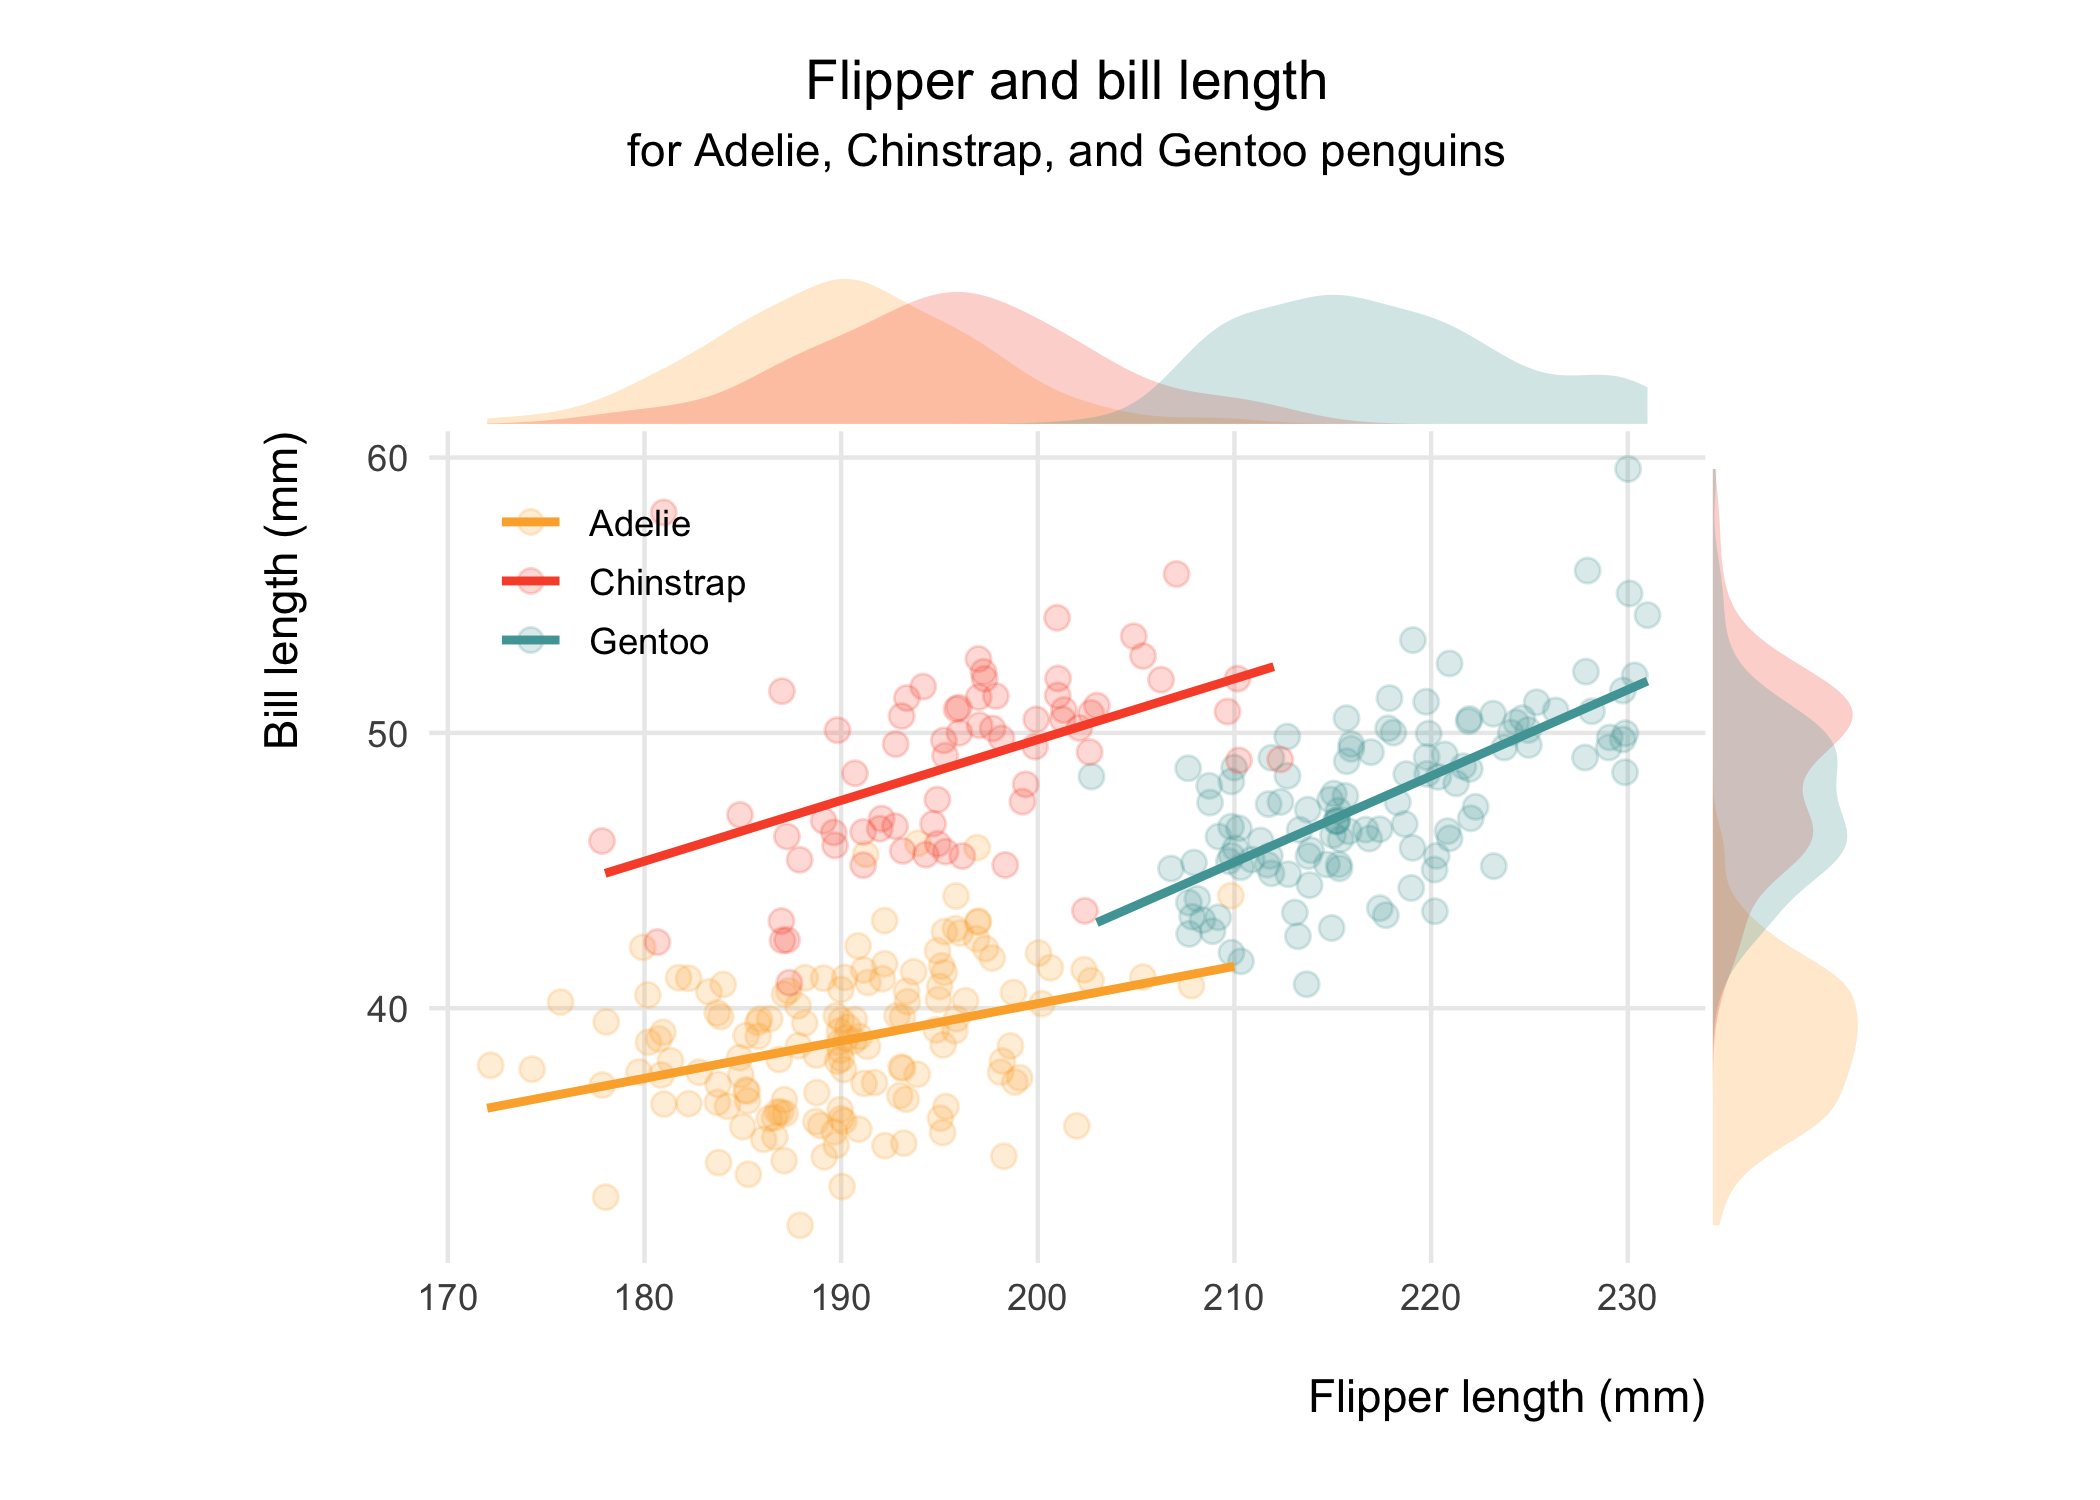
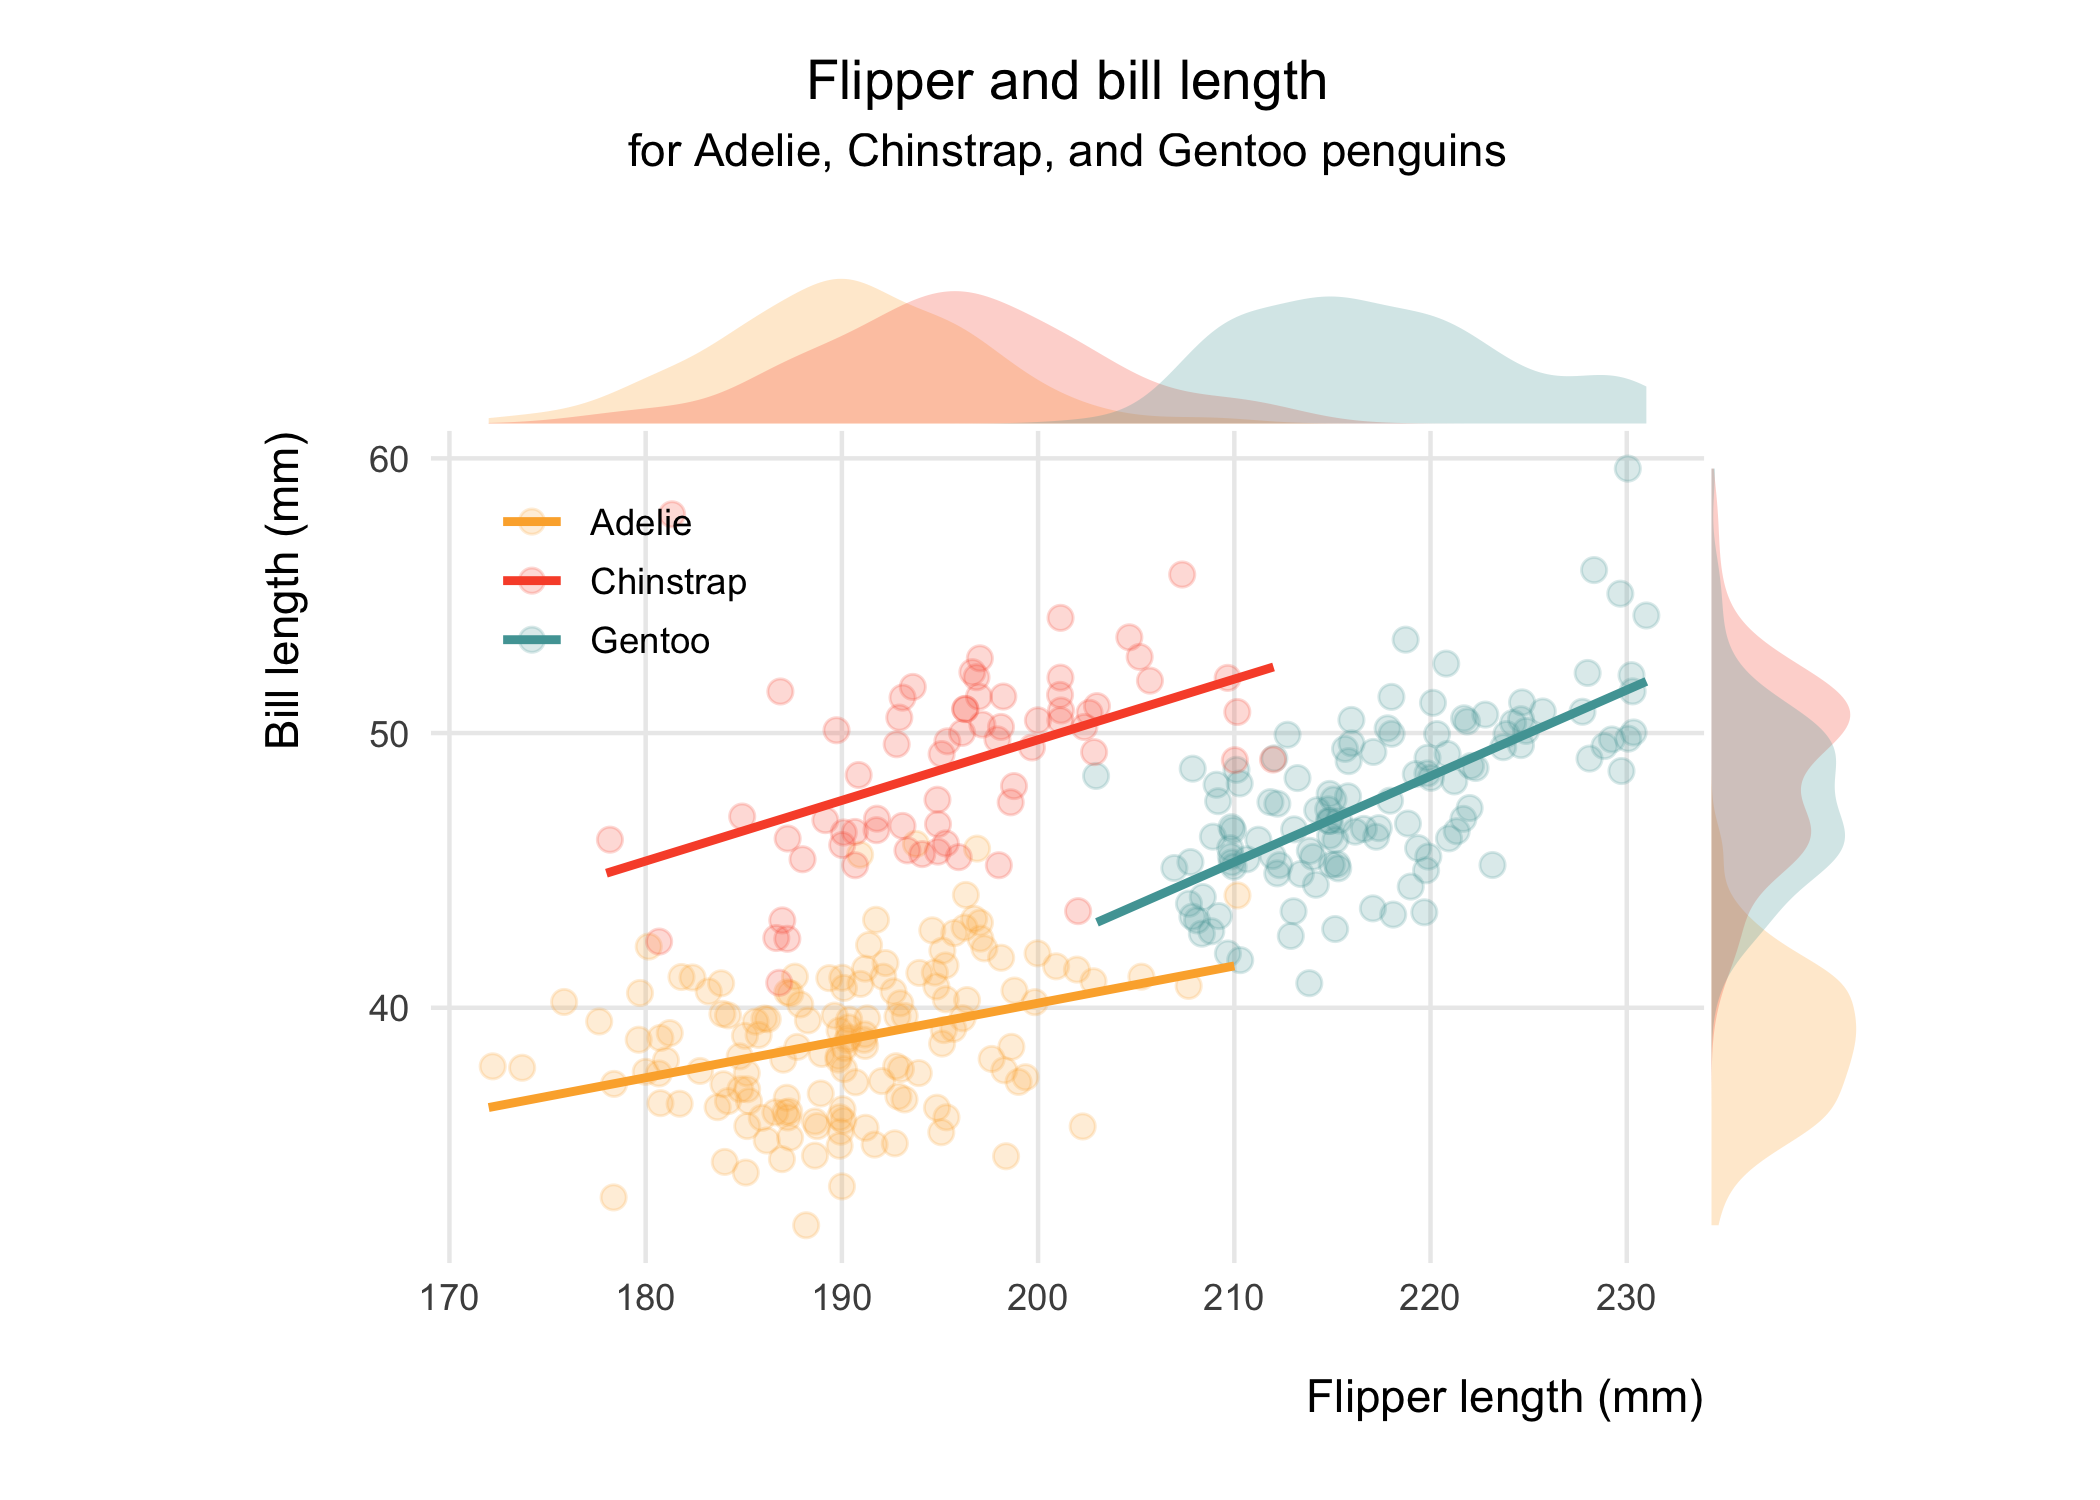
change alignment

diff --git a/palmer-penguins/palmer-penguins.md b/palmer-penguins/palmer-penguins.md
@@ -71,12 +71,19 @@ glimpse(penguins)
 
 ## Visualisation
 
+Firstly, I am going to reproduce the first plot illustrated on the
+`palmerpenguins` site, with slight modification. This is basically a
+scatter plot overlaid by ordinary-least-squares regression lines across
+species. Penguins with longer flippers tended to have a longer bill,
+irrespective of the species.
+
 ``` r
 # Set plots to some formatting
 
 ## Colours and theme of my choosing
-colours_penguins <- c("Gentoo" = "#50A3A4", "Chinstrap" = "#F95335", "Adelie" = "#FCAF38")
-colours_sex <- c("Male" = "#50A3A4", "Female" = "#FCAF38")
+colours_penguins <- c("Gentoo" = "#50A3A4",
+                      "Chinstrap" = "#F95335",
+                      "Adelie" = "#FCAF38")
 theme_set(theme_minimal())
 
 ## Further refinement
@@ -95,17 +102,14 @@ theme_update(
 )
 ```
 
-Firstly, I am going to reproduce the first plot illustrated on the
-`palmerpenguins` site, with slight modification. This is basically a
-scatter plot overlaid by ordinary-least-squares regression lines across
-species.
-
 ``` r
 # Scatter plot
 scatter_plot <- penguins %>% 
   ggplot(aes(x = flipper_length_mm, y = bill_length_mm)) +
-    geom_jitter(aes(colour = species), alpha = 0.20, size = 2.5) +
-    geom_smooth(aes(colour = species), method = "lm", formula = y ~ x, se = FALSE) +
+    geom_jitter(aes(colour = species),
+                alpha = 0.20, size = 2.5) +
+    geom_smooth(aes(colour = species),
+                method = "lm", formula = y ~ x, se = FALSE) +
     scale_colour_manual(values = colours_penguins) +
     coord_fixed(ratio = 1.4) +
     labs(x = "\nFlipper length (mm)\n",
@@ -120,21 +124,19 @@ ggMarginal(scatter_plot, type = "density", margins = "both",
 
 <img src="palmer-penguins_files/figure-gfm/scatter-plot-1.png" style="display: block; margin: auto;" />
 
-Penguins with longer flippers tended to have a longer bill, irrespective
-of the species.
-
------
-
 The second plot depicts the distributions of flipper length by sex and
 species using a beeswarm plot. Relatively few data points in each
 category due to stratification allow to make use of this pretty-looking
-plot, which also shows individual observations.
+plot, which also shows individual observations. On average, male
+penguins had longer flippers than females did. Also, Gentoo penguins had
+the longest flippers than the other two species.
 
 ``` r
 # Beeswarm plot
 penguins %>% 
   ggplot(aes(x = sex, y = flipper_length_mm)) +
-    geom_beeswarm(aes(colour = species), size = 1.8, dodge.width = 0.7, alpha = 0.3) +
+    geom_beeswarm(aes(colour = species),
+                  size = 1.8, dodge.width = 0.7, alpha = 0.3) +
     scale_colour_manual(values = colours_penguins) +
     coord_fixed(ratio = 0.03) +
     theme(panel.grid.major.x = element_blank()) +
@@ -145,9 +147,6 @@ penguins %>%
 ```
 
 <img src="palmer-penguins_files/figure-gfm/beeswarm-plot-1.png" style="display: block; margin: auto;" />
-
-On average, male penguins had longer flippers than females did. Also,
-Gentoo penguins had the longest flippers than the other two species.
 
 ## Appendix
 
